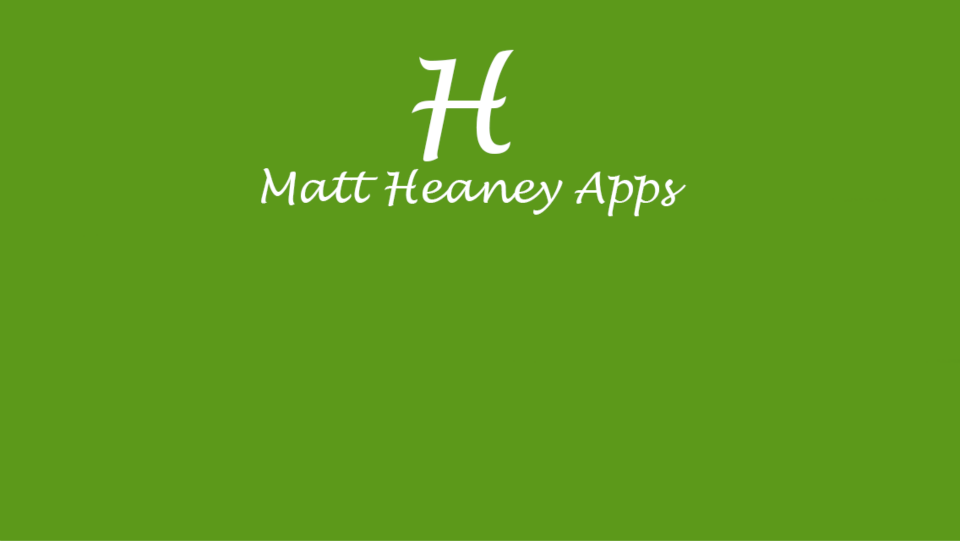
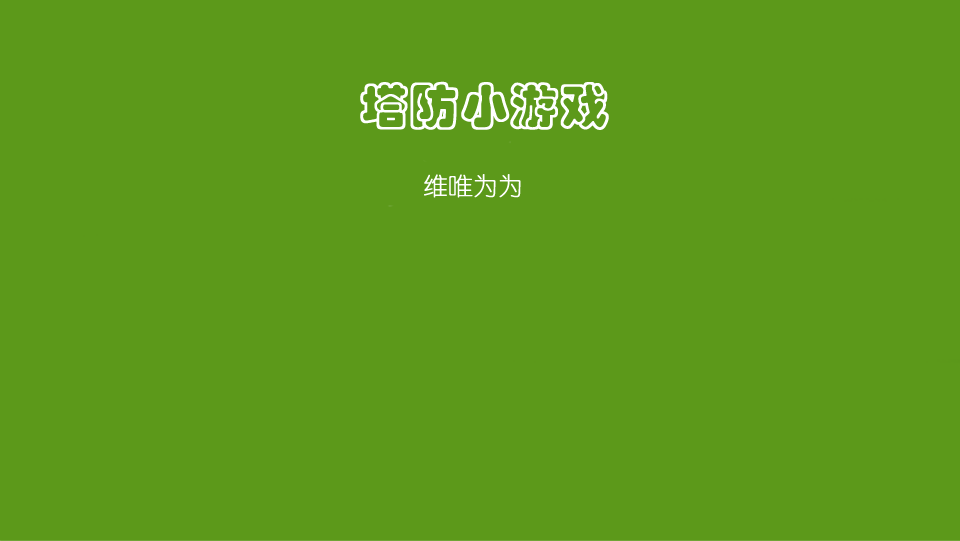
添加了第二个视图….

Changed region(s): [[0.375, 0.0887, 0.6562, 0.2957], [0.25, 0.2957, 0.7188, 0.414]]

diff --git a/TowerDefense/Game.m b/TowerDefense/Game.m
@@ -1,0 +1,73 @@
+//
+//  Game.m
+//  TowerDefense
+//
+//  Created by luowei on 14-6-6.
+//  Copyright (c) 2014年 rootls. All rights reserved.
+//
+
+#import "Game.h"
+
+int tankX;
+int tankY;
+
+@interface Game (){
+    NSTimer *movement;
+}
+@property (weak, nonatomic) IBOutlet UIImageView *tank;
+@property (weak, nonatomic) IBOutlet UIImageView *corner1;
+@property (weak, nonatomic) IBOutlet UIImageView *corner2;
+@property (weak, nonatomic) IBOutlet UIButton *nextWave;
+
+@end
+
+@implementation Game
+
+- (IBAction)nextWave:(id)sender {
+    _nextWave.hidden = YES;
+    _tank.hidden = NO;
+}
+
+- (void)moving{
+    _tank.center = CGPointMake(_tank.center.x + tankX, _tank.center.y+tankY);
+}
+
+- (id)initWithNibName:(NSString *)nibNameOrNil bundle:(NSBundle *)nibBundleOrNil
+{
+    self = [super initWithNibName:nibNameOrNil bundle:nibBundleOrNil];
+    if (self) {
+        // Custom initialization
+    }
+    return self;
+}
+
+- (void)viewDidLoad
+{
+    [super viewDidLoad];
+    
+    _corner1.hidden = YES;
+    _corner2.hidden = YES;
+    _tank.hidden = YES;
+    _tank.center = CGPointMake(-26, 200);
+    
+    movement = [NSTimer scheduledTimerWithTimeInterval:0.1 target:self selector:@selector(moving) userInfo:nil repeats:YES];
+}
+
+- (void)didReceiveMemoryWarning
+{
+    [super didReceiveMemoryWarning];
+    // Dispose of any resources that can be recreated.
+}
+
+/*
+#pragma mark - Navigation
+
+// In a storyboard-based application, you will often want to do a little preparation before navigation
+- (void)prepareForSegue:(UIStoryboardSegue *)segue sender:(id)sender
+{
+    // Get the new view controller using [segue destinationViewController].
+    // Pass the selected object to the new view controller.
+}
+*/
+
+@end

diff --git a/TowerDefense/Game.h b/TowerDefense/Game.h
@@ -1,0 +1,13 @@
+//
+//  Game.h
+//  TowerDefense
+//
+//  Created by luowei on 14-6-6.
+//  Copyright (c) 2014年 rootls. All rights reserved.
+//
+
+#import <UIKit/UIKit.h>
+
+@interface Game : UIViewController
+
+@end
